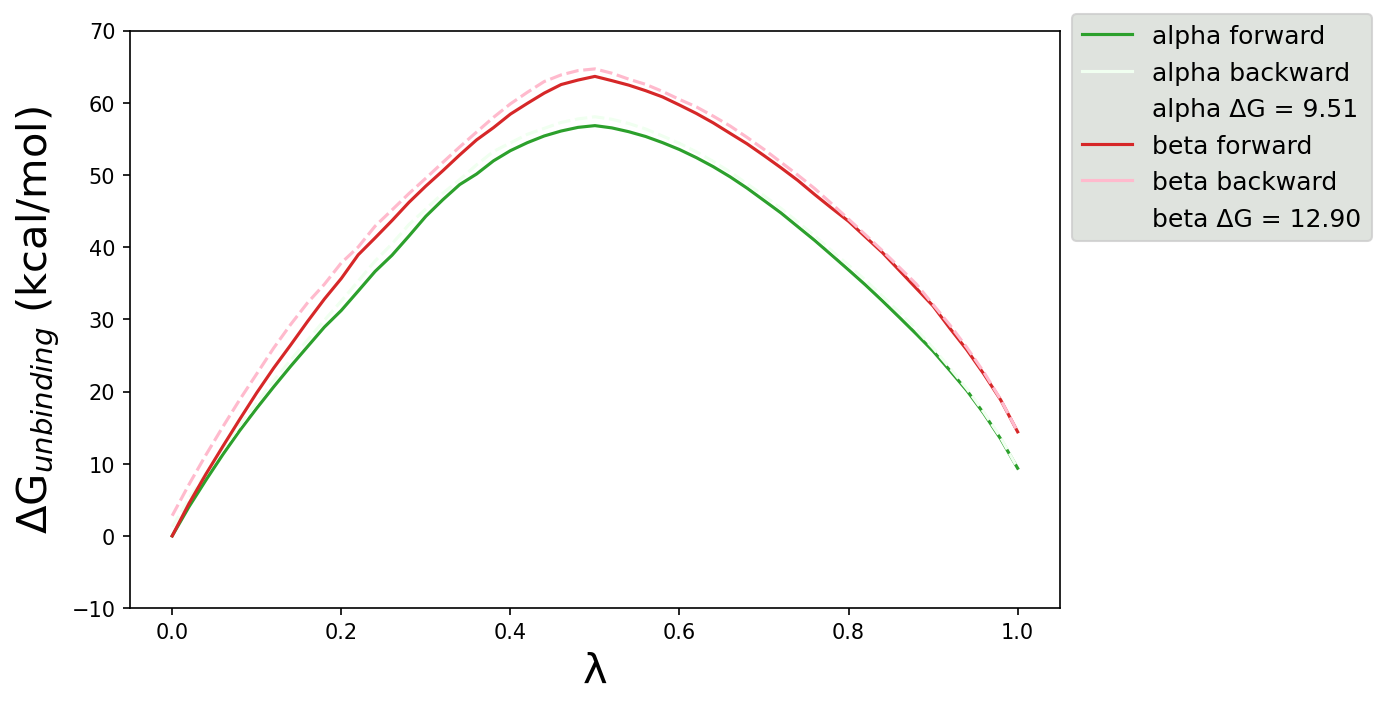
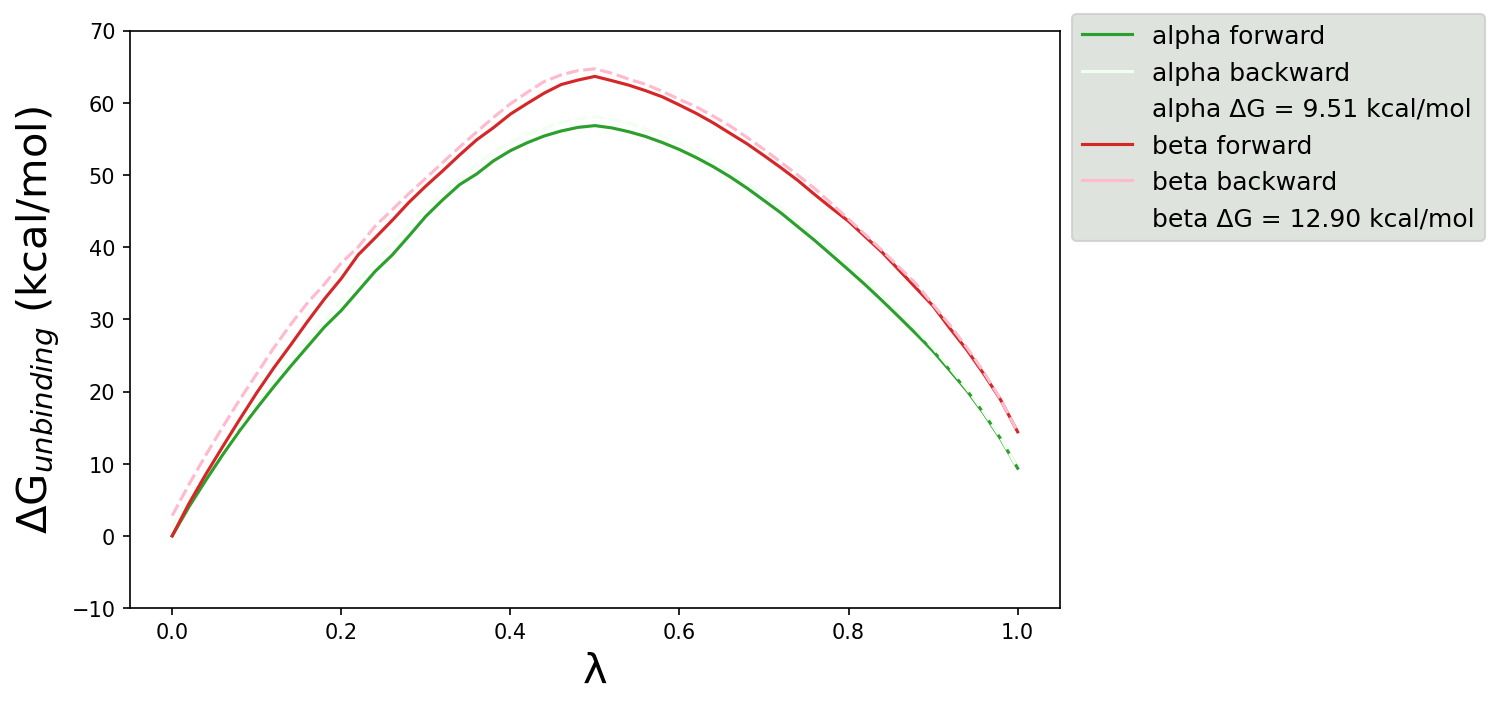
Added units to path plot legend

diff --git a/plotting_methods.py b/plotting_methods.py
@@ -82,7 +82,7 @@ def plot_paths(dframe, n, colors):
     for label in l[:-3]:
         if 'free_energy' in label:
             lab = f'{label.split("-")[0]} \u0394G = '
-            lab += f'{dframe.loc[dframe["hue"] == label, "dA"].values[0]:.2f}'
+            lab += f'{dframe.loc[dframe["hue"] == label, "dA"].values[0]:.2f} kcal/mol'
         else:
             lab = ' '.join([x for x in label.split('-')])
 
